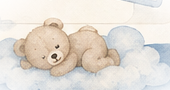
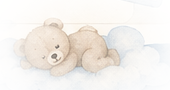
feat(estilo): textura unica de fundo e paineis translucidos
Claude-Session: https://claude.ai/code/session_0152WxZw4hx8nLNL4RbXDxPz

diff --git a/assets/style.css b/assets/style.css
@@ -7,7 +7,7 @@
 }
 *{box-sizing:border-box}
 html{scroll-behavior:smooth}
-body{margin:0;font-family:'Poppins',-apple-system,BlinkMacSystemFont,'Segoe UI',sans-serif;background:#F5EFE3 url('img/bg-clouds.png') repeat;background-size:760px auto;color:var(--brown-ink);line-height:1.5;overflow-x:hidden;-webkit-font-smoothing:antialiased}
+body{margin:0;font-family:'Poppins',-apple-system,BlinkMacSystemFont,'Segoe UI',sans-serif;background-color:#FAF6EE;background-image:url('../public/bg-textura.webp');background-size:cover;background-attachment:fixed;background-repeat:no-repeat;color:var(--brown-ink);line-height:1.5;overflow-x:hidden;-webkit-font-smoothing:antialiased}
 h1,h2,h3{font-family:'Playfair Display',Georgia,serif;color:var(--blue-ink);margin:0;font-weight:600}
 p{margin:0}
 a{color:inherit}
@@ -19,7 +19,7 @@ svg{display:block}
 @media(min-width:768px){.container{padding:0 32px}}
 
 /* ---------- header ---------- */
-.site-header{position:sticky;top:0;z-index:60;background:rgba(248,244,236,.94);backdrop-filter:blur(10px);border-bottom:1px solid rgba(216,197,174,.5)}
+.site-header{position:sticky;top:0;z-index:60;background:rgba(255,255,255,.6);backdrop-filter:blur(10px);border-bottom:1px solid rgba(216,197,174,.5)}
 .header-inner{max-width:1180px;margin:0 auto;display:flex;align-items:center;justify-content:space-between;gap:12px;padding:10px 16px}
 @media(min-width:768px){.header-inner{padding:12px 32px}}
 .brand{white-space:nowrap;display:flex;align-items:center;gap:8px;text-decoration:none;color:var(--brown-soft);min-height:44px;font-family:'Playfair Display',serif;font-size:20px}
@@ -32,7 +32,7 @@ svg{display:block}
 .header-cta{display:none!important}
 .hamburger{display:flex;background:none;border:none;color:var(--blue-ink);padding:10px;min-width:44px;min-height:44px;align-items:center;justify-content:center}
 @media(min-width:900px){.desktop-nav{display:flex}.header-cta{display:inline-flex!important}.hamburger{display:none}}
-.mobile-nav{display:none;flex-direction:column;background:var(--cream);border-top:1px solid rgba(216,197,174,.5);padding:6px 16px 18px}
+.mobile-nav{display:none;flex-direction:column;background:rgba(255,255,255,.9);backdrop-filter:blur(6px);border-top:1px solid rgba(216,197,174,.5);padding:6px 16px 18px}
 .mobile-nav.open{display:flex}
 .mobile-nav-link{text-decoration:none;padding:15px 4px;font-size:17px;color:var(--brown-ink);border-bottom:1px solid rgba(216,197,174,.45)}
 .mobile-nav-link.active{color:var(--blue-ink);font-weight:600}
@@ -44,7 +44,7 @@ svg{display:block}
 .btn-primary{background:var(--blue-deep);color:#fff;box-shadow:var(--shadow-soft)}
 .btn-primary:hover{background:var(--blue-ink)}
 .btn-secondary{background:rgba(255,255,255,.7);color:var(--blue-ink);border-color:var(--blue-gray)}
-.btn-secondary:hover{background:#fff}
+.btn-secondary:hover{background:rgba(255,255,255,.9)}
 .btn-sm{min-height:40px;padding:8px 16px;font-size:13px}
 .btn-lg{min-height:50px;padding:12px 26px;font-size:15px}
 .btn:disabled{opacity:.55;cursor:not-allowed;transform:none}
@@ -73,8 +73,8 @@ svg{display:block}
 .hero-actions{display:flex;flex-direction:column;gap:12px;margin-top:28px}
 @media(min-width:520px){.hero-actions{flex-direction:row;justify-content:center}}
 @media(min-width:900px){.hero-actions{justify-content:flex-start}}
-.hero-art{position:absolute;inset:0;z-index:0;pointer-events:none;background:linear-gradient(180deg,#F5EFE3 0%,rgba(245,239,227,0) 26%),url('img/hero-balloon.png') center bottom/min(430px,92vw) auto no-repeat;mix-blend-mode:multiply;animation:float 6s ease-in-out infinite}
-@media(min-width:900px){.hero-art{background:linear-gradient(90deg,#F5EFE3 40%,rgba(245,239,227,0) 66%),url('img/hero-balloon.png') right -30px center/auto 108% no-repeat;mix-blend-mode:multiply}}
+.hero-art{position:absolute;inset:0;z-index:0;pointer-events:none;background:url('img/hero-balloon.png') center bottom/min(430px,92vw) auto no-repeat;mix-blend-mode:multiply;animation:float 6s ease-in-out infinite}
+@media(min-width:900px){.hero-art{background:url('img/hero-balloon.png') right -30px center/auto 108% no-repeat}}
 .hero-text{z-index:1}
 @keyframes float{0%,100%{transform:translateY(0)}50%{transform:translateY(-10px)}}
 .star{position:absolute;color:var(--gold);opacity:.8;animation:twinkle 2.6s ease-in-out infinite;pointer-events:none}
@@ -84,7 +84,7 @@ svg{display:block}
 /* ---------- cards de capa ---------- */
 .home{padding:20px 16px 40px;max-width:1180px;margin:0 auto;display:grid;gap:18px}
 @media(min-width:768px){.home{padding:24px 32px 48px;gap:22px}}
-.panel{background:rgba(251,248,241,.82);backdrop-filter:blur(1px);border:1px solid rgba(216,197,174,.55);border-radius:var(--radius);box-shadow:var(--shadow-soft);padding:22px 18px;position:relative;overflow:hidden}
+.panel{background:rgba(255,255,255,.55);backdrop-filter:blur(2px);border:1px solid rgba(216,197,174,.55);border-radius:var(--radius);box-shadow:var(--shadow-soft);padding:22px 18px;position:relative;overflow:hidden}
 @media(min-width:768px){.panel{padding:28px 26px}}
 .panel h2{font-size:clamp(26px,3.5vw,34px)}
 .panel .lead{color:var(--brown-soft);font-size:15px;margin-top:6px}
@@ -92,7 +92,7 @@ svg{display:block}
 .heart{color:var(--blue-baby);font-size:18px;line-height:1}
 
 /* sugestão */
-.suggestion{background:linear-gradient(90deg,rgba(246,238,220,.9),rgba(243,233,213,.9));display:grid;gap:18px;align-items:center;text-align:center}
+.suggestion{display:grid;gap:18px;align-items:center;text-align:center}
 @media(min-width:900px){.suggestion{grid-template-columns:130px 1.3fr 1fr 1fr;text-align:left}}
 .suggestion-main h2{font-size:24px;color:var(--brown-ink)}
 .suggestion-main .highlight{font-family:'Playfair Display',serif;font-size:22px;color:var(--blue-ink);margin-top:8px}
@@ -111,7 +111,7 @@ svg{display:block}
 .panel-head .center{flex:1}
 .preview-grid{display:grid;grid-template-columns:repeat(3,minmax(0,1fr));gap:10px;margin-top:20px}
 @media(max-width:400px){.preview-grid{gap:6px}}
-.mini-card{min-width:0;background:#fff;border:1px solid rgba(216,197,174,.55);border-radius:16px;padding:10px 8px 12px;display:flex;flex-direction:column;align-items:center;text-align:center;gap:6px;text-decoration:none;color:inherit;transition:transform .2s,box-shadow .2s}
+.mini-card{min-width:0;background:rgba(255,255,255,.55);backdrop-filter:blur(2px);border:1px solid rgba(216,197,174,.55);border-radius:16px;padding:10px 8px 12px;display:flex;flex-direction:column;align-items:center;text-align:center;gap:6px;text-decoration:none;color:inherit;transition:transform .2s,box-shadow .2s}
 .mini-card:hover{transform:translateY(-3px);box-shadow:var(--shadow-soft)}
 .mini-card .thumb{height:80px;display:flex;align-items:center;justify-content:center}
 .mini-card .thumb img{max-height:80px;width:auto;mix-blend-mode:multiply}
@@ -137,7 +137,7 @@ svg{display:block}
 @media(min-width:560px){.about-intro{flex-direction:row;text-align:left}}
 .about-intro img{width:120px;mix-blend-mode:multiply}
 .about-intro p{font-size:14px;color:var(--brown-soft)}
-.sub-panel{background:#F4EBDA;border-radius:18px;padding:18px 16px}
+.sub-panel{background:rgba(255,255,255,.55);backdrop-filter:blur(2px);border-radius:18px;padding:18px 16px}
 .sub-panel h3{font-size:19px;text-align:center;margin-bottom:6px}
 .sub-panel .lead{text-align:center;font-size:13px;color:var(--brown-soft);margin-bottom:12px}
 .info-list{list-style:none;margin:0;padding:0;display:flex;flex-direction:column;gap:8px}
@@ -159,10 +159,10 @@ svg{display:block}
 @media(min-width:560px){.product-grid{grid-template-columns:repeat(2,1fr)}}
 @media(min-width:900px){.product-grid{grid-template-columns:repeat(3,1fr)}}
 @media(min-width:1180px){.gift-grid{grid-template-columns:repeat(4,1fr)}}
-.product-card{background:#fff;border-radius:20px;box-shadow:var(--shadow-soft);overflow:hidden;display:flex;flex-direction:column;border:1px solid rgba(216,197,174,.5);transition:transform .2s,box-shadow .2s}
+.product-card{background:rgba(255,255,255,.55);backdrop-filter:blur(2px);border-radius:20px;box-shadow:var(--shadow-soft);overflow:hidden;display:flex;flex-direction:column;border:1px solid rgba(216,197,174,.5);transition:transform .2s,box-shadow .2s}
 .product-card:hover{transform:translateY(-4px);box-shadow:var(--shadow-strong)}
 .product-card.taken{opacity:.62}
-.product-media{height:150px;background:linear-gradient(135deg,#fff,var(--bear-snout));display:flex;align-items:center;justify-content:center;color:var(--blue-deep)}
+.product-media{height:150px;display:flex;align-items:center;justify-content:center;color:var(--blue-deep)}
 .product-media img{max-height:120px;width:auto;mix-blend-mode:multiply}
 .product-media img.cover{max-height:none;width:100%;height:100%;object-fit:cover;mix-blend-mode:normal}
 .product-body{padding:16px;display:flex;flex-direction:column;flex:1;gap:6px}
@@ -179,11 +179,11 @@ svg{display:block}
 .pills{display:flex;gap:8px;overflow-x:auto;padding:4px 0 12px;margin-bottom:12px;scrollbar-width:none}
 .pills::-webkit-scrollbar{display:none}
 @media(min-width:768px){.pills{flex-wrap:wrap;justify-content:center;overflow:visible}}
-.pill{flex:none;background:#fff;border:1px solid var(--beige);color:var(--brown-soft);border-radius:999px;padding:9px 16px;min-height:44px;font-size:14px;font-weight:500}
+.pill{flex:none;background:rgba(255,255,255,.6);border:1px solid var(--beige);color:var(--brown-soft);border-radius:999px;padding:9px 16px;min-height:44px;font-size:14px;font-weight:500}
 .pill.active{background:var(--blue-deep);border-color:var(--blue-deep);color:#fff}
 .about-grid{display:grid;gap:18px}
 @media(min-width:900px){.about-grid{grid-template-columns:1fr 1fr}}
-.info-card{background:#fff;border-radius:22px;padding:24px 20px;box-shadow:var(--shadow-soft);border:1px solid rgba(216,197,174,.5)}
+.info-card{background:rgba(255,255,255,.55);backdrop-filter:blur(2px);border-radius:22px;padding:24px 20px;box-shadow:var(--shadow-soft);border:1px solid rgba(216,197,174,.5)}
 .info-card h3{font-size:22px;margin-bottom:14px}
 .info-card .info-list li{font-size:15px;gap:12px}
 .info-card .info-list svg{color:var(--blue-gray);flex:none;margin-top:3px}
@@ -195,7 +195,7 @@ svg{display:block}
 /* ---------- rodapé ---------- */
 .site-footer{position:relative;margin-top:24px;color:#fff}
 .site-footer .wave{display:block;width:100%;height:44px;color:var(--blue-deep)}
-.footer-body{background:var(--blue-deep);padding:6px 16px 90px}
+.footer-body{background:rgba(111,143,168,.82);backdrop-filter:blur(2px);padding:6px 16px 90px}
 @media(min-width:900px){.footer-body{padding-bottom:36px}}
 .footer-inner{max-width:1180px;margin:0 auto;display:flex;flex-direction:column;align-items:center;gap:12px;text-align:center;font-size:14px}
 @media(min-width:768px){.footer-inner{flex-direction:row;justify-content:space-between;text-align:left}}
@@ -207,7 +207,7 @@ svg{display:block}
 /* ---------- modal / toast ---------- */
 .modal-overlay{position:fixed;inset:0;background:rgba(74,59,48,.45);backdrop-filter:blur(3px);z-index:100;display:none;align-items:center;justify-content:center;padding:16px}
 .modal-overlay.open{display:flex}
-.modal-card{background:#fff;border-radius:24px;padding:30px 22px;width:100%;max-width:min(95vw,470px);position:relative;box-shadow:var(--shadow-strong);animation:pop .25s ease}
+.modal-card{background:rgba(255,255,255,.92);backdrop-filter:blur(6px);border-radius:24px;padding:30px 22px;width:100%;max-width:min(95vw,470px);position:relative;box-shadow:var(--shadow-strong);animation:pop .25s ease}
 @keyframes pop{from{opacity:0;transform:translateY(16px) scale(.97)}to{opacity:1;transform:none}}
 .modal-close{position:absolute;top:10px;right:10px;background:none;border:none;color:var(--brown-soft);min-width:44px;min-height:44px;display:flex;align-items:center;justify-content:center}
 .modal-card h3{font-size:24px;padding-right:32px}
@@ -230,3 +230,4 @@ svg{display:block}
 .reveal.in{opacity:1;transform:none}
 @media(prefers-reduced-motion:reduce){.reveal{opacity:1;transform:none;transition:none}}
 @media(max-width:559px){.brand>span:not(.script){display:none}.panel-head .panel-art:last-child:not(:first-child){display:none}}
+@media(max-width:480px){.mini-card .btn{font-size:11px;padding:8px 4px;letter-spacing:0}}
